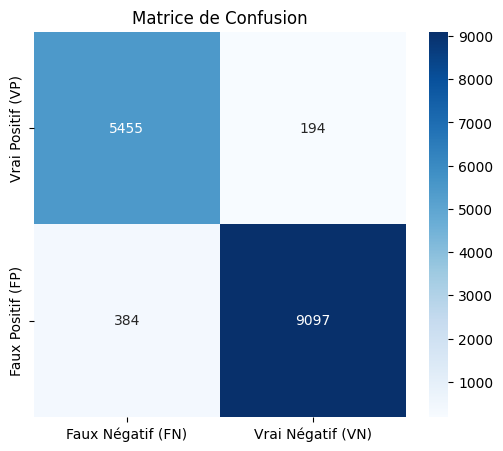
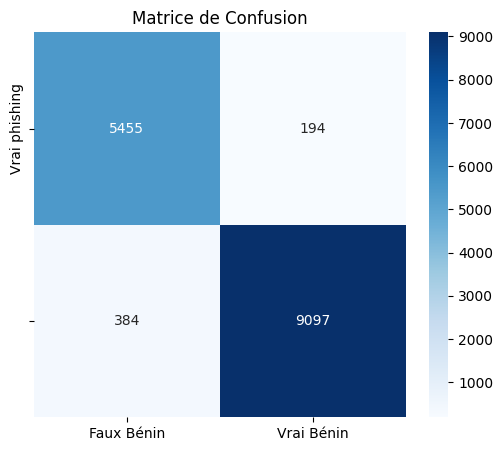
Changed label of confusion matrix

diff --git a/src/plot.py b/src/plot.py
@@ -157,8 +157,8 @@ def plot_confusion_matrix(conf_matrix,filename):
     Plot a confusion matrix and saves it using the filename given as argument
     '''
     matrix_labels = [
-        ["Vrai Positif (VP)", "Faux Positif (FP)"],
-        ["Faux Négatif (FN)", "Vrai Négatif (VN)"]
+        ["Vrai phishing", ""],
+        ["Faux Bénin", "Vrai Bénin"]
     ]
 
     plt.figure(figsize=(6,5))
@@ -167,7 +167,7 @@ def plot_confusion_matrix(conf_matrix,filename):
     
     plt.title("Matrice de Confusion")
     plt.savefig(filename, bbox_inches="tight")
-    plt.close()  # Fermer la figure pour libérer la mémoire
+    plt.close()  
 
 if __name__ == "__main__":
 
